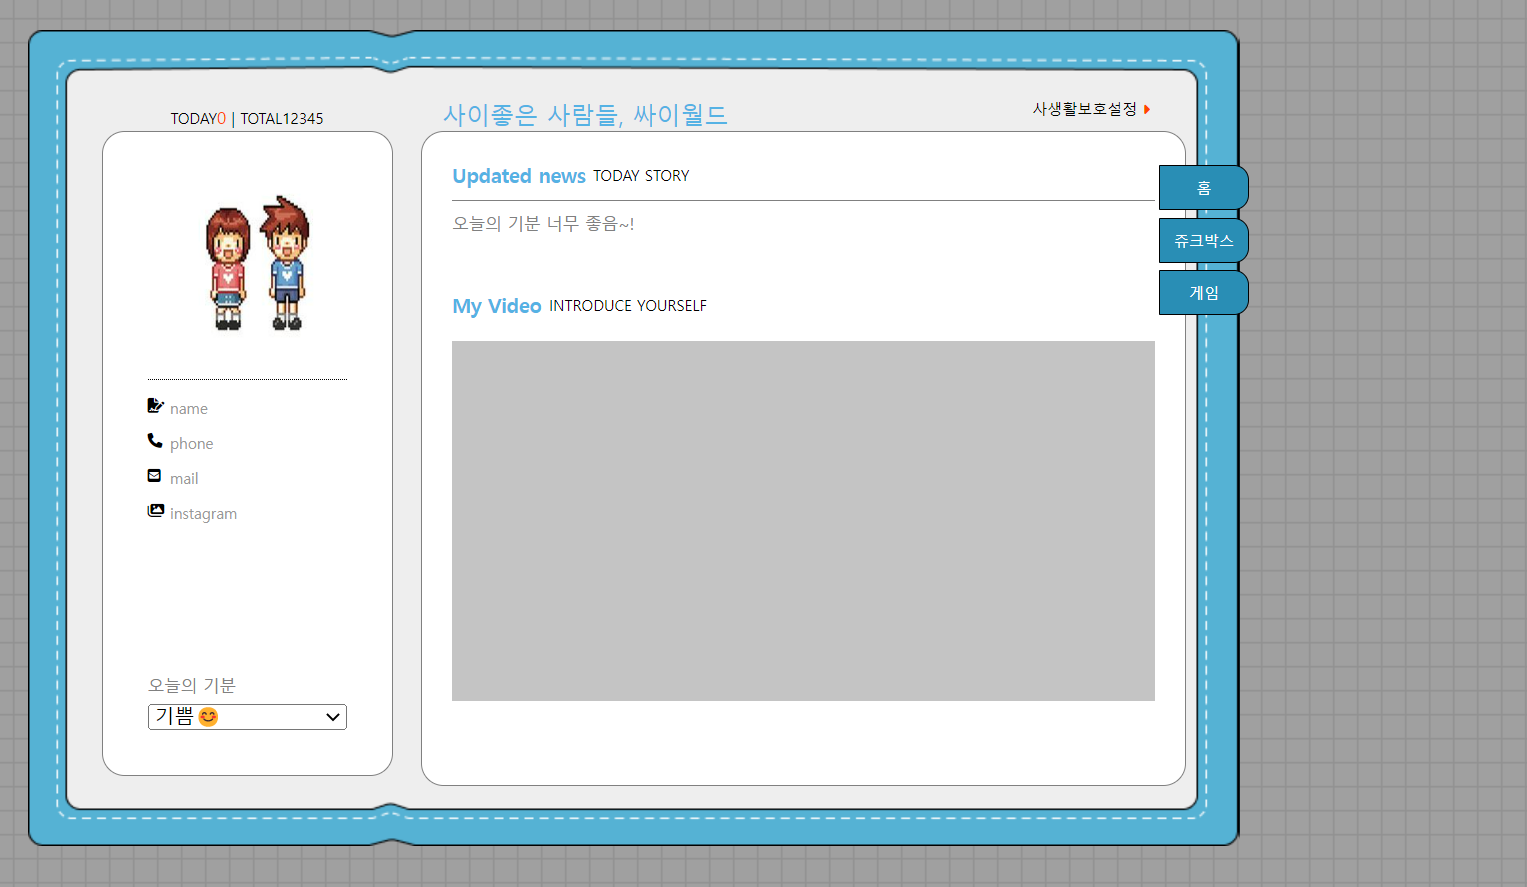
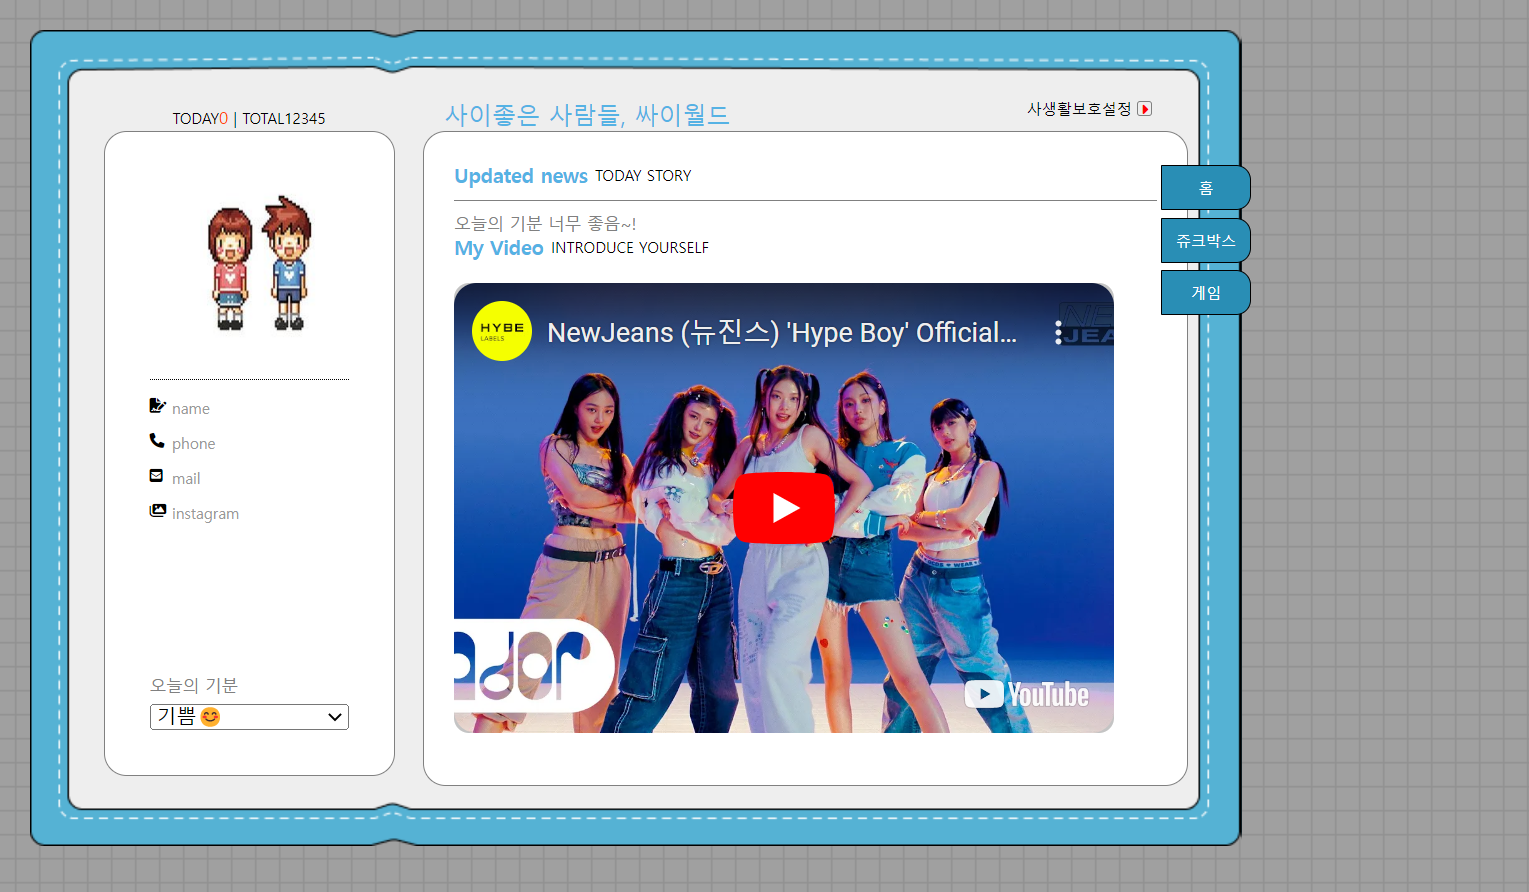
projects url edit

diff --git a/src/components/profile/Profile.js b/src/components/profile/Profile.js
@@ -102,18 +102,18 @@ export default function Profile(){
             </div>
             <table cellPadding={7}>
                 <tr>
-                    <th>근무기간</th>
-                    <th>근무회사</th>
-                    <th>부서</th>
-                    <th>직위</th>
-                    <th>담당직무</th>
+                    <th style={{width: '100px'}}>근무기간</th>
+                    <th style={{width: '100px'}}>근무회사</th>
+                    <th style={{width: '130px'}}>부서</th>
+                    <th style={{width: '100px'}}>직위</th>
+                    <th style={{width: '250px'}}>담당직무</th>
                 </tr>
                 <tr style={{textAlign:'center'}}>
                     <td>2020. 03 ~ 2022.10</td>
                     <td>필라넷</td>
                     <td>그룹웨어1팀 </td>
                     <td>주임</td>
-                    <td>3년 차 웹개발자로 그룹웨어 솔루션을 제공하는 IT 전문중소기업에서 웹과 앱 서비스를 개발/배포/운영하였습니다.</td>
+                    <td style={{width:"350px"}}>3년차 웹개발자로 그룹웨어 솔루션을 제공하는 IT 전문중소기업에서 웹과 앱 서비스를 개발/배포/운영하였습니다.</td>
                 </tr>
             </table>
             <br/>
@@ -138,20 +138,20 @@ export default function Profile(){
                 <tr>
                     <th >회사명</th>
                     <td>(주)필라넷</td>
-                    <th >부서</th>
-                    <td>그룹웨어1팀</td>
-                    <th >직급</th>
-                    <td>주임</td>
+                    <th style={{width:'150px'}}>부서</th>
+                    <td style={{width:'150px'}}>그룹웨어1팀</td>
+                    <th style={{width:'100px'}}>직급</th>
+                    <td style={{width:'100px'}}>주임</td>
                 </tr>
                 <tr>
-                    <th >프로젝트명</th>
-                    <td>[신영증권] 그룹웨어 리뉴얼 프로젝트</td>
-                    <th >프로젝트 기간</th>
-                    <td>2022. 03 ~ 2022. 06</td>
+                    <th style={{width:'170px'}}>프로젝트명</th>
+                    <td style={{width:'500px'}}>[신영증권] 그룹웨어 리뉴얼 프로젝트</td>
+                    <th style={{width:'200px'}}>프로젝트 기간</th>
+                    <td style={{width:'270px'}}>2022. 03 ~ 2022. 06</td>
                 </tr>
                 <tr>
-                    <th >주요역할 및 담당</th>
-                    <td>
+                    <th>주요역할 및 담당</th>
+                    <td colSpan={4}>
                     - Vue.js, TypeScript를 활용한 그룹웨어 사이트 관리자 페이지,일정 페이지 개발<br/>
                     - 사용자 관점으로 기능을 추가하여 10% MAU 증가<br/>
                     - Vuex를 이용해 상태관리 및 서비스 분리<br/>
@@ -160,14 +160,14 @@ export default function Profile(){
                     </td>
                 </tr>
                 <tr>
-                    <th >프로젝트명</th>
+                    <th style={{width:'150px'}}>프로젝트명</th>
                     <td>[이수그룹] 그룹웨어 구축</td>
-                    <th >프로젝트 기간</th>
+                    <th style={{width:'150px'}}>프로젝트 기간</th>
                     <td>2021. 06 ~ 2021. 12</td>
                 </tr>
                 <tr>
-                    <th >주요역할 및 담당</th>
-                    <td>
+                    <th>주요역할 및 담당</th>
+                    <td colSpan={4}>
                     - Vue.js, TypeScript를 활용한 웹메일 조직도 페이지 개발<br/>
                     - Vuex를 이용해 상태관리 및 서비스 분리<br/>
                     - REST API를 활용한 CRUD Operation 구현<br/>
@@ -175,14 +175,14 @@ export default function Profile(){
                     </td>
                 </tr>
                 <tr>
-                    <th >프로젝트명</th>
+                    <th style={{width:'150px'}}>프로젝트명</th>
                     <td>[KT] EXO 웹메일 프로젝트</td>
-                    <th >프로젝트 기간</th>
+                    <th style={{width:'150px'}}>프로젝트 기간</th>
                     <td>2020. 12 ~ 2021. 05</td>
                 </tr>
                 <tr>
                     <th >주요역할 및 담당</th>
-                    <td>
+                    <td colSpan={2}>
                     - Vue.js, TypeScript를 활용한 메일파트 개발<br/>
                     - Vuex를 이용해 상태관리 및 서비스 분리<br/>
                     - 전자메일의 exchange 서버 관리<br/>
@@ -190,14 +190,14 @@ export default function Profile(){
                     </td>
                 </tr>
                 <tr>
-                    <th >프로젝트명</th>
+                    <th style={{width:'150px'}}>프로젝트명</th>
                     <td>[OB맥주] 그룹웨어 리뉴얼</td>
-                    <th >프로젝트 기간</th>
+                    <th style={{width:'150px'}}>프로젝트 기간</th>
                     <td>2020. 06 ~ 2020. 12</td>
                 </tr>
                 <tr>
                     <th >주요역할 및 담당</th>
-                    <td>
+                    <td colSpan={2}>
                     - JQuery, JavaScript Version Upgrade<br/>
                     - ASP.NET, MSSQL을 사용해 페이지 개발<br/>
                     - Git을 이용한 형상관리<br/>

diff --git a/src/components/projects/Projects.js b/src/components/projects/Projects.js
@@ -3,25 +3,34 @@ import Card from 'react-bootstrap/Card';
 import Col from 'react-bootstrap/Col';
 import Row from 'react-bootstrap/Row';
 export default function Project(){
+    const onClickDetail = (url) => {
+        console.log(url);
+        window.location.href = url;
+    }
     const projects = [
         {
+            url: 'https://dayoonyicyworld.vercel.app/',
             title: 'Cyworld Project',
-            contents: `React를 사용하여 싸이월드 홈페이지를 재현해보았습니다.`,
+            contents: `html,css,javascript,react.js를 사용하여 싸이월드를 재현해 보았습니다.
+            홈화면에는 유튜브 동영상이 재생되며 게임탭에 끝말잇기 게임과 로또 랜덤 번호 뽑기 게임 기능을 구현하였습니다.`,
             src: '/images/cyworld.png',
         },
         {
+            url: '',
             title: 'ToDoList Project',
             contents: `React의 상태관리 방법 중 하나인 Redux를 사용하여 할일 목록을 관리할 수 있는 웹페이지를 개발하였습니다.
             할일추가,수정,삭제,히스토리 조회 기능이 있습니다.`,
             src: '/images/todos.png',
         },
         {
+            url: '',
             title: 'Sports Challenge Project',
             contents: `React의 상태관리 방법 중 하나인 Redux를 사용하여 스쿼트 개수를 관리할 수 있는 웹페이지를 개발하였습니다.
             스쿼트 실행, 취소, 히스토리 조회 기능이 있습니다.`,
             src: '/images/wait.png',
         },
         {
+            url: '',
             title: '맛집찾기 Project',
             contents: `React,KakaoMap API를 사용하여 맛집을 마크할 수 있는 웹페이지를 개발하였습니다.
             맛집추가,수정,삭제,히스토리 조회 기능이 있습니다.`,
@@ -40,7 +49,7 @@ export default function Project(){
                         <Card.Text style={{paddingLeft:'10px', whiteSpace:'pre-line'}}>
                             {project.contents}
                         </Card.Text>
-                        <Button style={{paddingLeft:'13px'}} variant="primary">자세히 보기 ▶ README</Button>
+                        <Button style={{paddingLeft:'13px'}} variant="primary" onClick={()=>{onClickDetail(project.url)}}>자세히 보기 ▶ README</Button>
                         </Card.Body>
                     </Card>
                     </Col>
